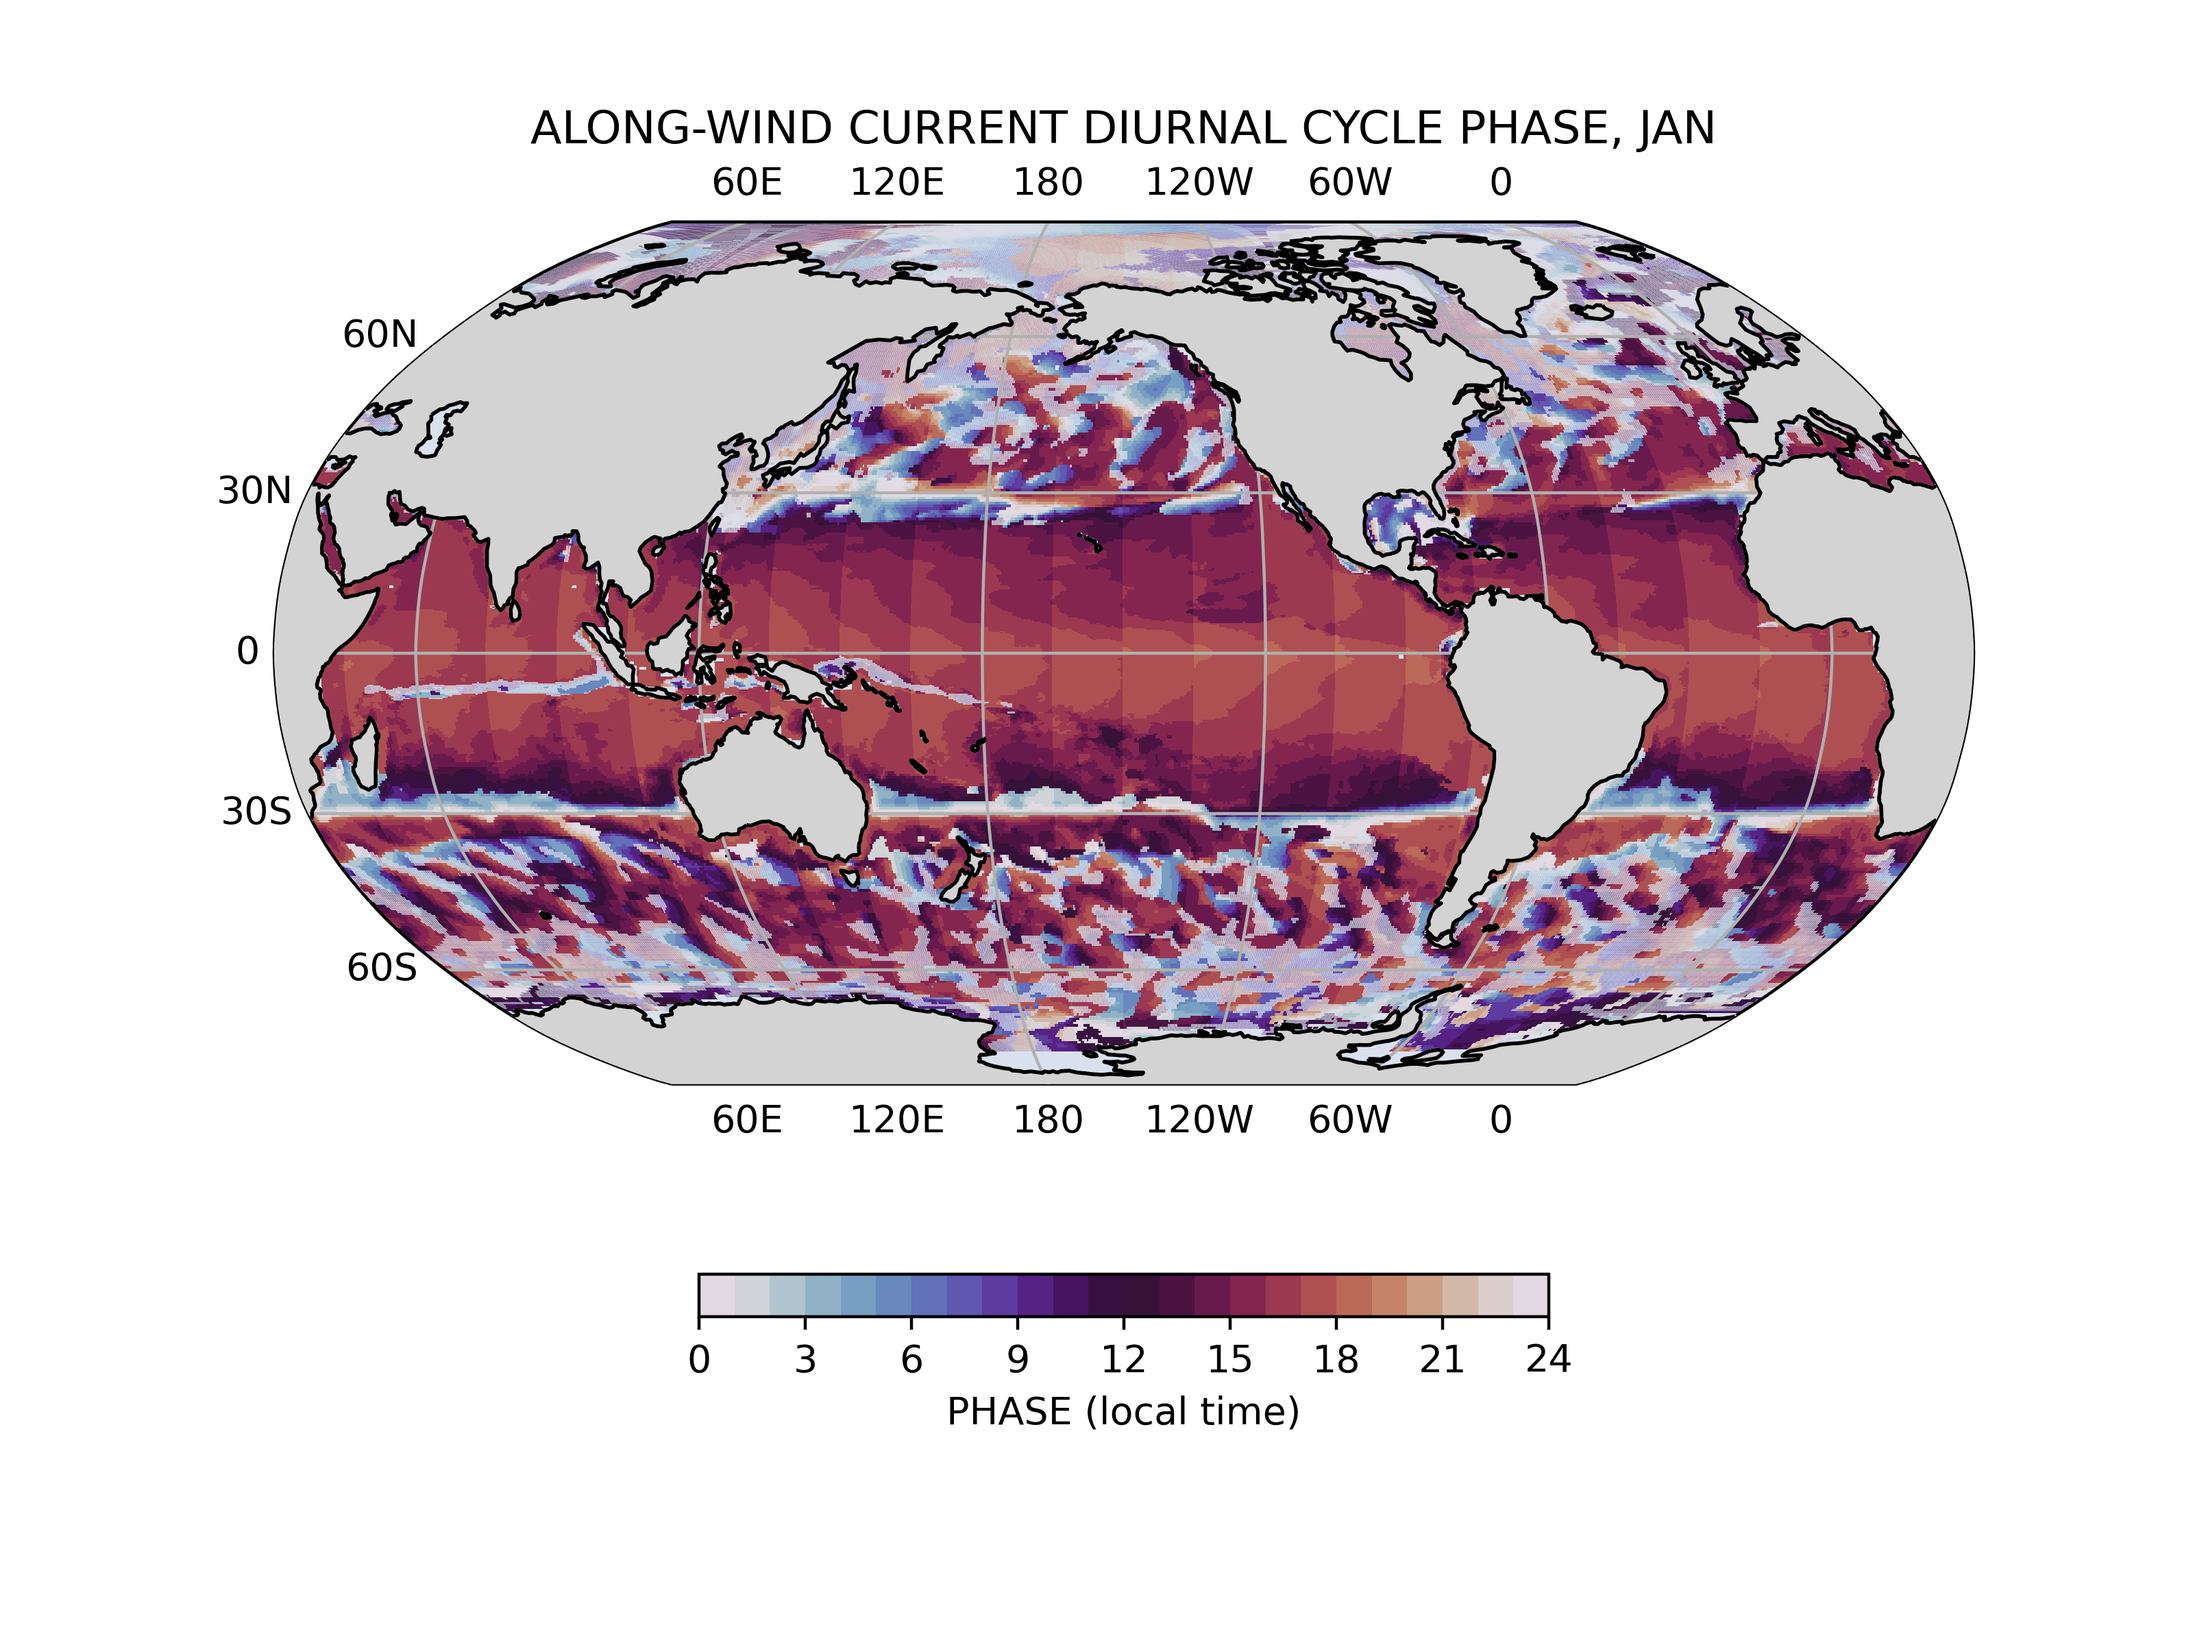
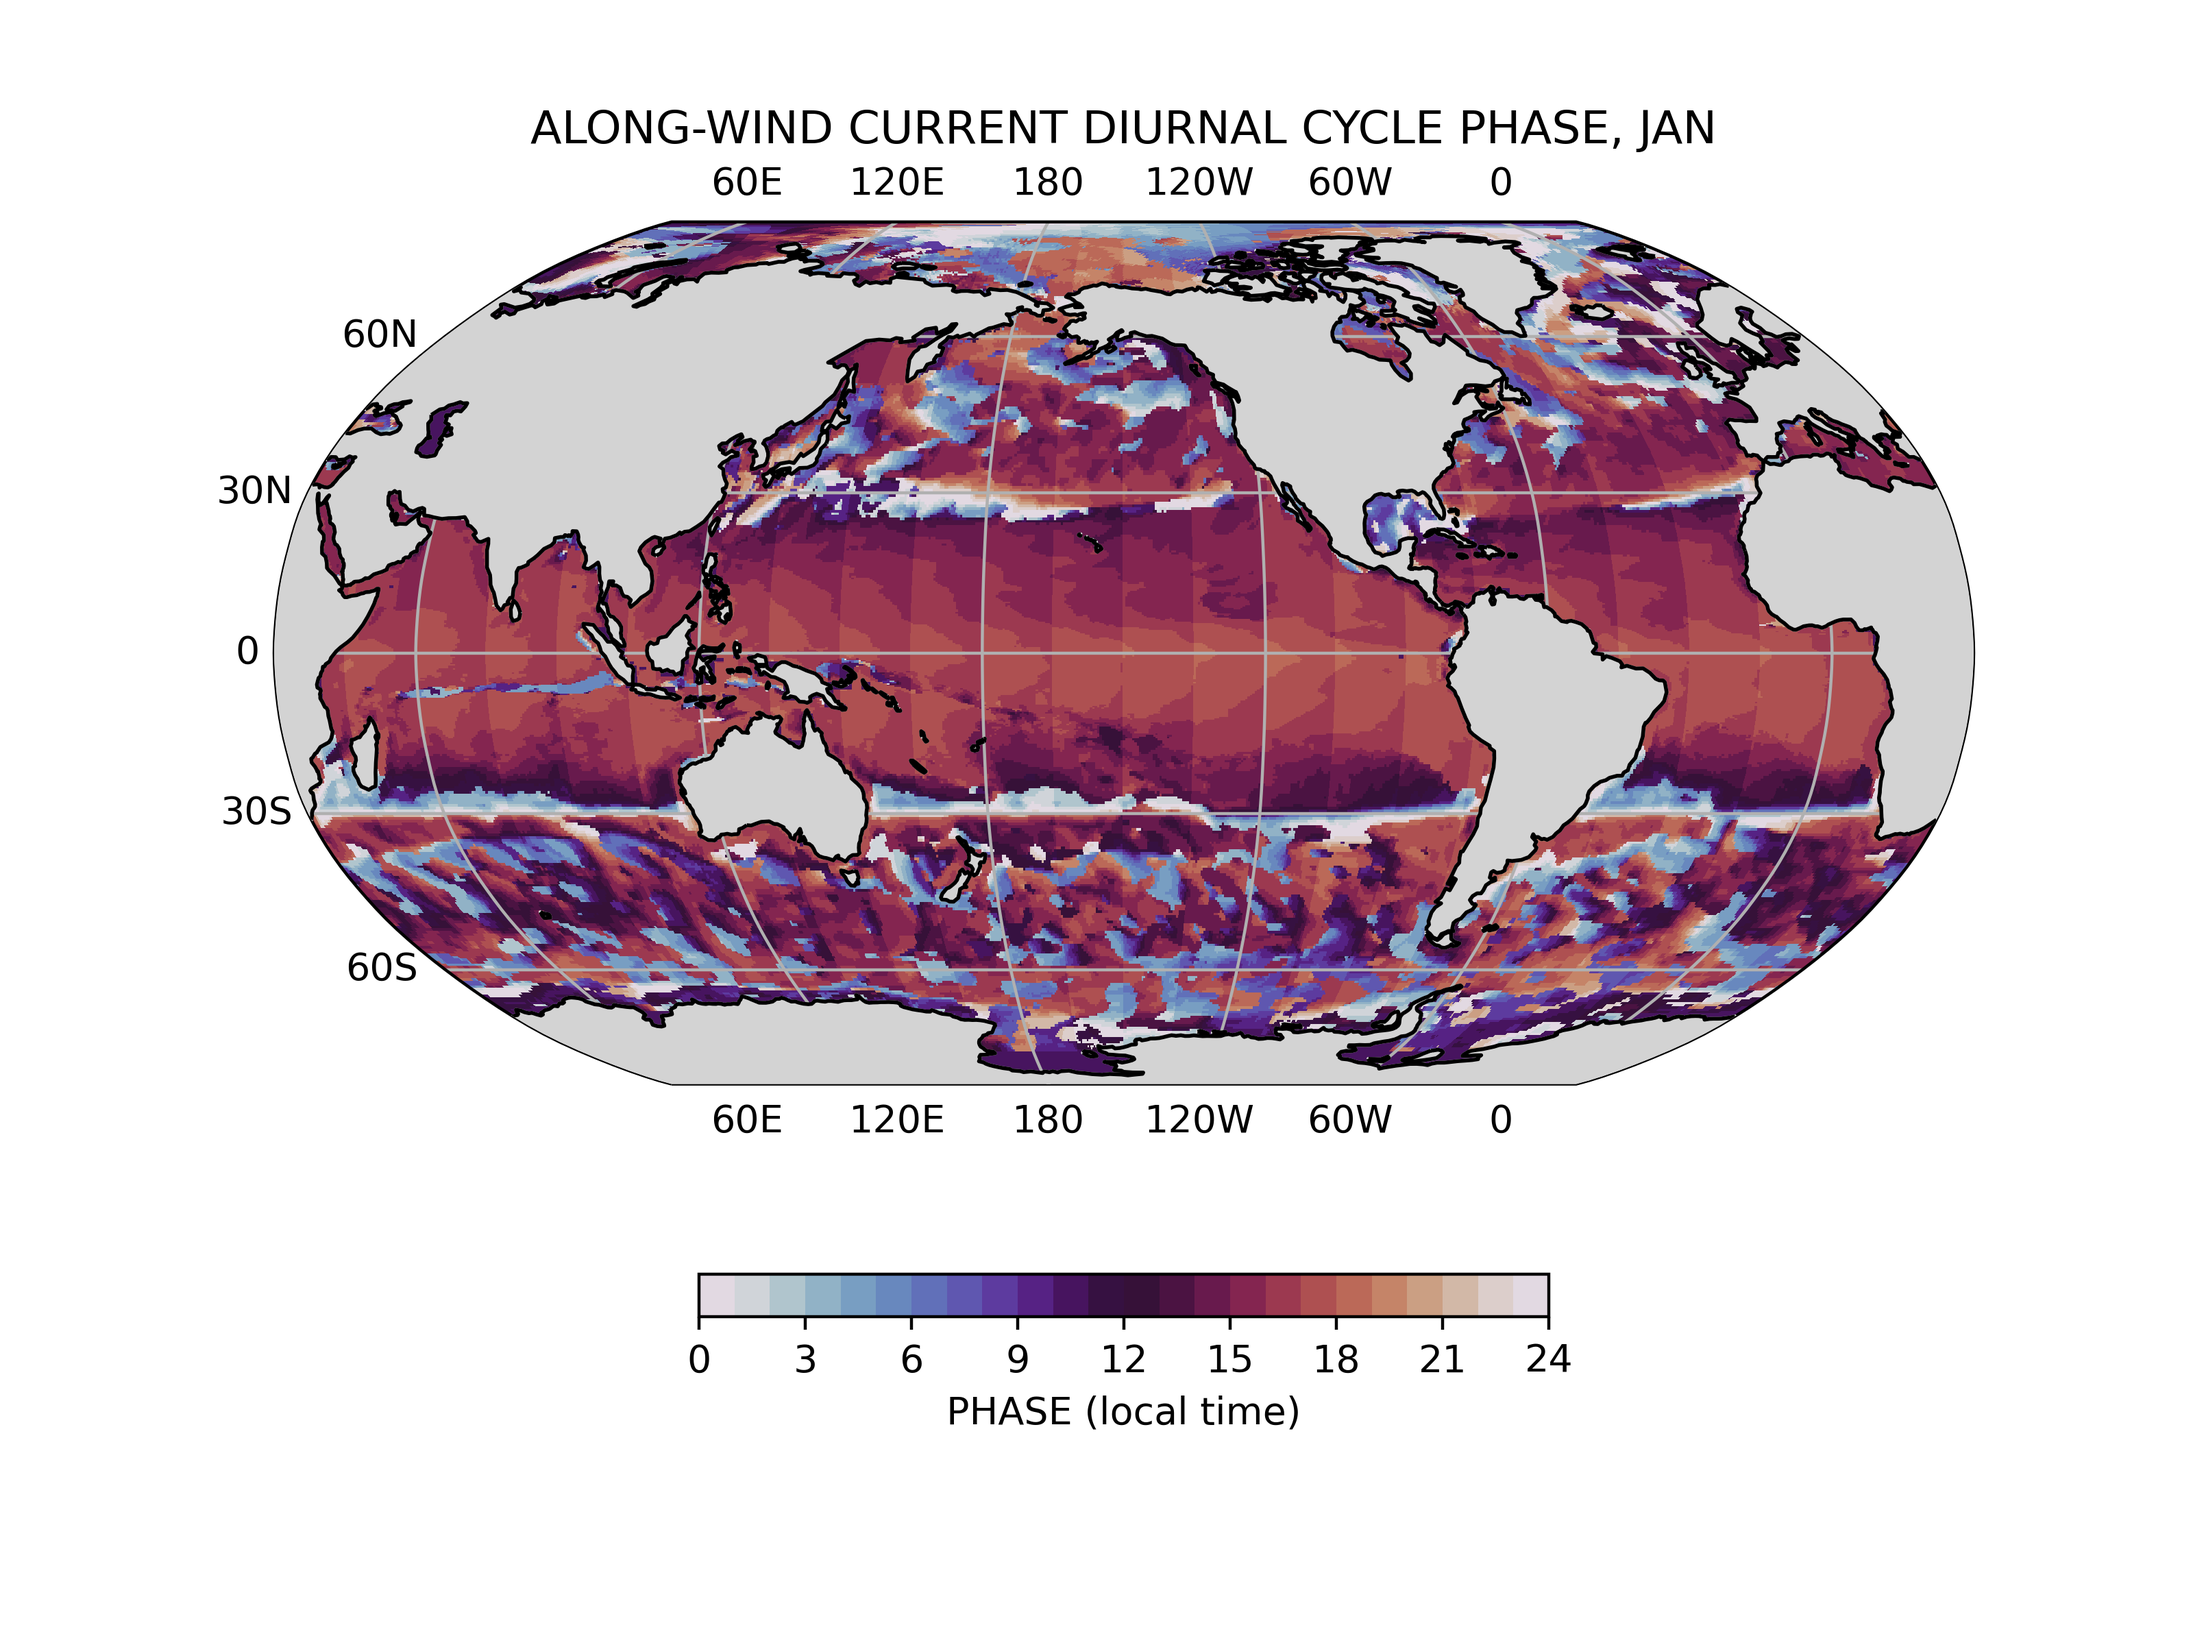
Changes maps of diurnal current range&phase to use shear.

diff --git a/diurnal_cycle/analysis/diurnal_range_maps.py b/diurnal_cycle/analysis/diurnal_range_maps.py
@@ -46,6 +46,9 @@ def main(plot_month, plot_var, plot_type):
     ocn_chunks = {'time':48, 'hour':24, 'st_ocean':20, 'yt_ocean':10,
                   'xt_ocean':20, 'yu_ocean':10, 'xu_ocean':20}
     
+    # Specify depth used as reference in current shear calculation.
+    curr_shear_depth = 60.0
+    
     # Construct month string.
     if plot_month == 'ANN':
         month_str = 'ANN'
@@ -72,6 +75,8 @@ def main(plot_month, plot_var, plot_type):
         if plot_var == 'WIND':
             file_list = get_filelist('atmo', plot_month, ddir)
             ds = xr.open_mfdataset(file_list)[['UGRD', 'VGRD']].sel(height=10.0)
+            # Take time average.
+            ds = ds.mean(dim='time', keep_attrs=True)
             ds.attrs['input_files'] = file_list
         elif plot_var == 'CUR':
             surface_file_list = get_filelist('surface', plot_month, ddir)
@@ -86,19 +91,28 @@ def main(plot_month, plot_var, plot_type):
             ds = utils.rotation_xy(ds, 'u', 'v',
                                    np.radians(ds_stress_rec_mean['arctan_VoverU'].data),
                                    'math', exp_dim=(0,1))
+            # Take time average.
+            ds = ds.mean(dim='time', keep_attrs=True)
+            # Convert to shear, relative to a fixed depth.
+            z = ds.st_ocean.data
+            st_ocean_base = np.nanmax(z[z <= curr_shear_depth])
+            xr.set_options(keep_attrs=True)
+            for varname in ['u','v','U_streamwise','U_crossstream']:
+                ds[varname] = ds[varname] \
+                    - ds[varname].sel(st_ocean=st_ocean_base)
+            xr.set_options(keep_attrs=False)
             ds.attrs['input_files'] = file_list
             ds_var = 'U_streamwise'
         elif plot_var == 'TEMP':
             file_list = get_filelist('ocn', plot_month, ddir)
             ds = xr.open_mfdataset(file_list, chunks=ocn_chunks)[['temp']]
+            # Take time average.
+            ds = ds.mean(dim='time', keep_attrs=True)
             ds.attrs['input_files'] = file_list
             ds_var = 'temp'
         else:
             sys.exit('plot_var not recognized.')
-        
-        # Take time average. 
-        ds = ds.mean(dim='time', keep_attrs=True)
-        
+         
         # Change NaN to an unrealistic value.
         # (Some of the functions below cannot handle all-NaN slices.)
         nan_hr_mask = xr.where(
@@ -196,7 +210,7 @@ def main(plot_month, plot_var, plot_type):
     
     # Convert all velocities to cm s-1.
     if plot_var == 'CUR':
-        for v in ['RANGE']:
+        for v in ['RANGE', 'RANGE_25']:
             ds[v] = ds[v]*100.0
             ds[v].attrs['units'] = 'cm s-1'
     
@@ -291,8 +305,8 @@ def switch_lon_lims(lon_list, min_lon=0.0):
 def approx_local_time(ds):
     if 'geolon_t' in ds.keys():
         lon = ds['geolon_t']
-    elif 'geolon_u' in ds.keys():
-        lon = ds['geolon_u']
+    elif 'geolon_c' in ds.keys():
+        lon = ds['geolon_c']
     else:
         print('longitude variable not found.')
         print(ds)
